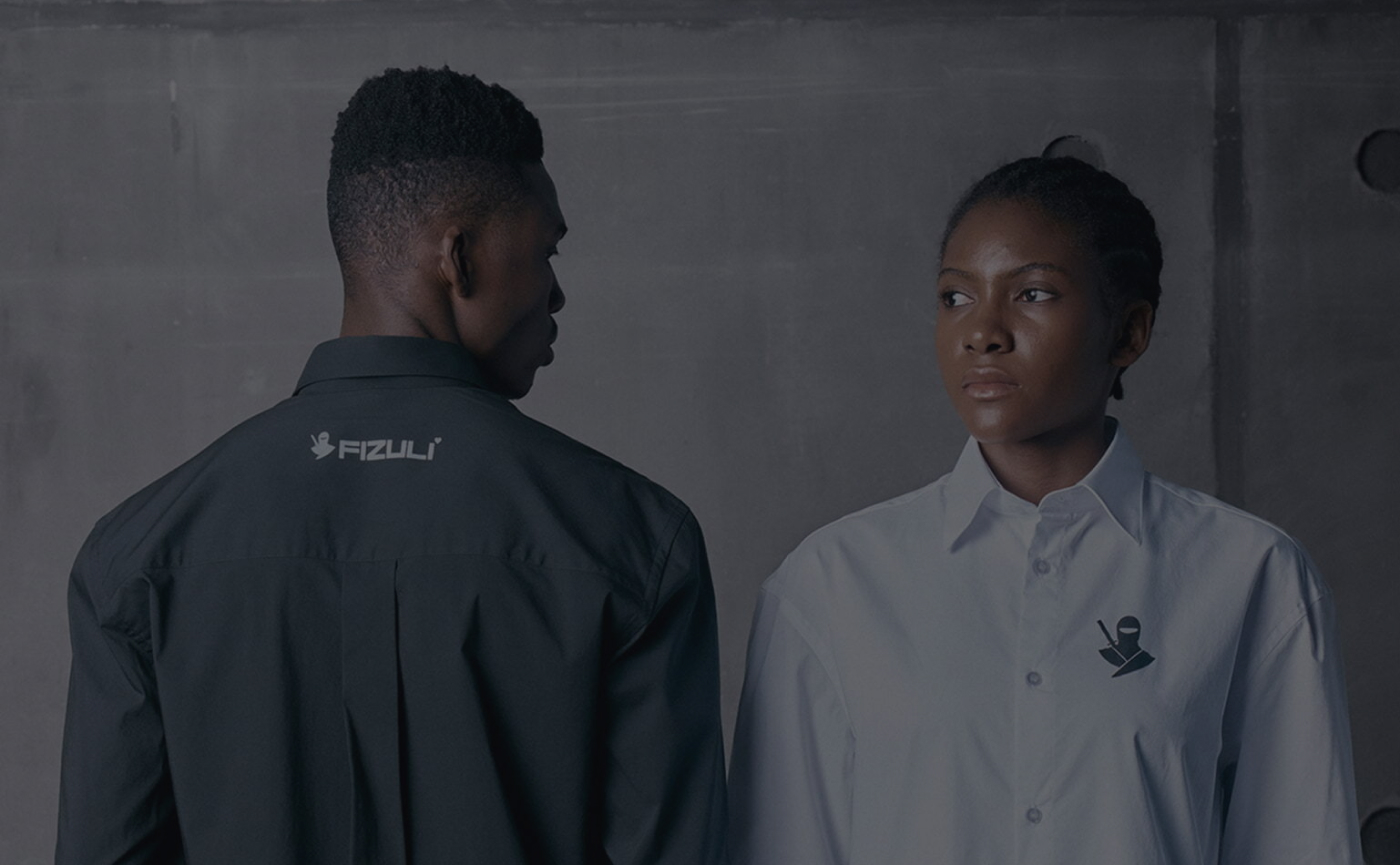
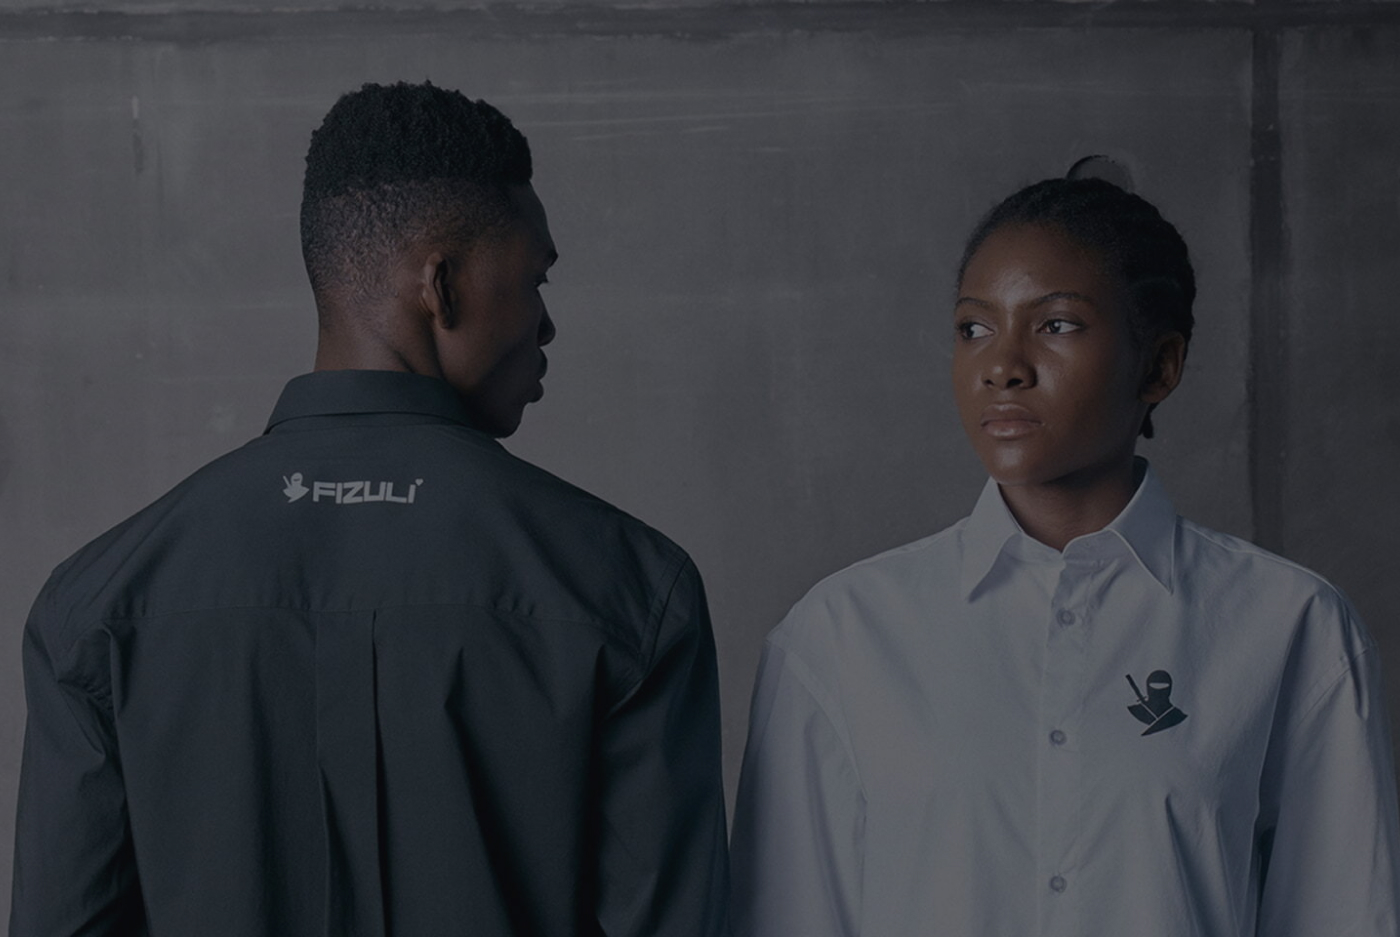
Внешние поля блоков 144 сверху и снизу (было 48): содержимое опущено на 96, фоны растянуты

diff --git a/index.html b/index.html
@@ -8,7 +8,7 @@
   <title>Fizuli — редизайн интернет-магазина. Кейс</title>
   <!-- ?v= менять при каждой правке стилей: GitHub Pages отдаёт CSS с кешем на 10 минут,
        и без новой версии браузер держит старый файл при уже новой разметке -->
-  <link rel="stylesheet" href="blocks.css?v=2026-10-10-19">
+  <link rel="stylesheet" href="blocks.css?v=2026-10-11-1">
   <style>
     :root { --black: #0e0d13; }
     * { box-sizing: border-box; }
@@ -80,7 +80,7 @@
     </section>
 
     <section class="block" aria-label="02 · Бренд и задача">
-      <div class="stage tb b2" style="height:900px;background:#ffffff">
+      <div class="stage tb b2" style="height:1092px;background:#ffffff">
         <div class="t" style="left:48px;top:48px;font-size:14px;color:rgb(14,13,19);line-height:19.0px;width:158px;white-space:nowrap">02&nbsp;&nbsp;·&nbsp;&nbsp;БРЕНД И ЗАДАЧА</div>
         <div class="t" style="left:1192px;top:48px;font-size:14px;color:rgb(14,13,19);line-height:19.0px;width:160px;text-align:right;white-space:nowrap">OQ КЛУБ&nbsp;&nbsp;·&nbsp;&nbsp;КОНКУРС</div>
         <div class="t" style="left:48px;top:388px;font-size:12px;color:rgba(14,13,19,0.6);line-height:17.0px;letter-spacing:0.12em;width:152px">БРЕНД</div>
@@ -111,7 +111,8 @@
 
     <section class="block" aria-label="03 · Сценарии">
       <div class="stage b4">
-        <div class="dark-half"></div>
+        <div class="light-bg bg"></div>
+        <div class="dark-half bg"></div>
         <div class="abs meta"><span>03&nbsp;&nbsp;·&nbsp;&nbsp;Сценарии</span><span></span><span>Исследование</span></div>
 
         <div class="half l" data-half>
@@ -146,7 +147,7 @@
     </section>
 
     <section class="block" aria-label="04 · Структура">
-      <div class="stage tb b5" style="height:1154px;background:#ffffff">
+      <div class="stage tb b5" style="height:1298px;background:#ffffff">
         <div class="t s-meta" style="left:48px;top:48px;width:300px">04  ·  Структура</div>
         <div class="t s-meta" style="right:48px;top:48px;text-align:right">Решения</div>
         <div class="t s-intro" style="left:725px;top:163px;width:627px">Главный вход&nbsp;— «Мужчинам» и&nbsp;«Женщинам». Внутри каждого раздела две линии&nbsp;— повседневная и&nbsp;спортивная. Аксессуары и&nbsp;детское вынесла на&nbsp;отдельные страницы, так как товаров мало.</div>
@@ -186,7 +187,7 @@
     </section>
 
     <section class="block" aria-label="05 · Путь к товару">
-      <div class="stage tb b5p" style="height:1279px;background:#0e0d13">
+      <div class="stage tb b5p" style="height:1423px;background:#0e0d13">
         <div class="glow"></div>
         <div class="floor"></div>
         <div class="t p-meta" style="left:48px;top:48px">05  ·  Путь к товару</div>
@@ -215,7 +216,7 @@
     </section>
 
     <section class="block" aria-label="06 · Каталог">
-      <div class="stage tb b6c" style="height:1362px">
+      <div class="stage tb b6c" style="height:1506px">
         <div class="t c-meta" style="left:48px;top:48px">06  ·  Каталог</div>
         <div class="t c-meta" style="right:48px;top:48px;text-align:right">Решения</div>
         <img class="c-page" src="assets/catalog/page.jpg?v=3" alt="Каталог повседневной линии: карточки с цветами, плитка Process, кардиган «нет в наличии»" loading="lazy">
@@ -225,7 +226,7 @@
     </section>
 
     <section class="block" aria-label="07 · Лукбук">
-      <div class="stage tb b7l" style="height:1312px;background:#ffffff">
+      <div class="stage tb b7l" style="height:1504px;background:#ffffff">
         <div class="t l-meta" style="left:48px;top:48px">07  ·  Лукбук</div>
         <div class="t l-meta" style="right:48px;top:48px;text-align:right">Решения</div>
         <!-- Место под видео. Сейчас — первый кадр (poster). Видео вставим в конце:
@@ -250,7 +251,7 @@
     </section>
 
     <section class="block" aria-label="08 · Страница товара">
-      <div class="stage tb b8p" style="height:2042px">
+      <div class="stage tb b8p" style="height:2231px">
         <div class="t p8-meta" style="left:48px;top:48px">08  ·  Страница товара</div>
         <div class="t p8-meta" style="right:48px;top:48px;text-align:right">Решения</div>
         <!-- Экран планшета — контейнер: видео модели встанет поверх второго фото галереи (подпись «Видео вместо фото»). -->
@@ -282,7 +283,7 @@
     </section>
 
     <section class="block" aria-label="09 · Корзина и заказ">
-      <div class="stage tb b9c" style="height:2473px;background:#0e0d13">
+      <div class="stage tb b9c" style="height:2617px;background:#0e0d13">
         <div class="glow" style="left:-17.2px;top:273px;width:1434.4px;height:840px;opacity:.1"></div>
         <div class="glow" style="left:-17.2px;top:1031.3px;width:1434.4px;height:716.9px;opacity:.1"></div>
         <div class="glow" style="left:15.4px;top:1699.4px;width:718.3px;height:739px;opacity:.07"></div>
@@ -309,13 +310,13 @@
     </section>
 
     <section class="block" aria-label="10 · Цвет и типографика">
-      <div class="stage tb b6" style="height:1100px;background:#ffffff">
-        <div class="r" style="left:0px;top:690px;width:700px;height:410px;background:rgb(255,255,255)"></div>
-        <div class="r" style="left:0px;top:460px;width:700px;height:230px;background:rgb(246,246,246)"></div>
-        <div class="r" style="left:0px;top:330px;width:700px;height:130px;background:rgb(200,200,200)"></div>
-        <div class="r" style="left:0px;top:200px;width:700px;height:130px;background:rgb(117,117,117)"></div>
-        <div class="r" style="left:0px;top:0px;width:700px;height:200px;background:rgb(14,13,19)"></div>
-        <div class="r" style="left:700px;top:0px;width:700px;height:1100px;background:rgb(246,246,246)"></div>
+      <div class="stage tb b6" style="height:1326px;background:#ffffff">
+        <div class="r bg" style="left:0px;top:786px;width:700px;height:540px;background:rgb(255,255,255)"></div>
+        <div class="r bg" style="left:0px;top:556px;width:700px;height:230px;background:rgb(246,246,246)"></div>
+        <div class="r bg" style="left:0px;top:426px;width:700px;height:130px;background:rgb(200,200,200)"></div>
+        <div class="r bg" style="left:0px;top:296px;width:700px;height:130px;background:rgb(117,117,117)"></div>
+        <div class="r bg" style="left:0px;top:0px;width:700px;height:296px;background:rgb(14,13,19)"></div>
+        <div class="r bg" style="left:700px;top:0px;width:700px;height:1326px;background:rgb(246,246,246)"></div>
         <div class="t" style="left:1282px;top:48px;font-size:14px;color:rgb(14,13,19);line-height:19.0px;width:70px;white-space:nowrap">СИСТЕМА</div>
         <div class="t" style="left:725px;top:140px;font-size:12px;color:rgba(14,13,19,0.6);line-height:17.0px;width:111px;white-space:nowrap">TT Supermolot Neue</div>
         <div class="t" style="left:725px;top:160px;font-size:16px;color:rgb(14,13,19);line-height:22.0px;width:128px;white-space:nowrap">Заголовки, цены</div>
@@ -349,9 +350,9 @@
     </section>
 
     <section class="block" aria-label="11 · Карточка товара">
-      <div class="stage tb b11" style="height:1730px">
-        <img class="k-bg" style="top:0" src="assets/card/bg-top.jpg" alt="" aria-hidden="true" loading="lazy">
-        <img class="k-bg" style="top:865px" src="assets/card/bg-bottom.jpg" alt="" aria-hidden="true" loading="lazy">
+      <div class="stage tb b11" style="height:1874px">
+        <img class="k-bg bg" style="top:0" src="assets/card/bg-top.jpg?v=2" alt="" aria-hidden="true" loading="lazy">
+        <img class="k-bg bg" style="top:937px" src="assets/card/bg-bottom.jpg?v=2" alt="" aria-hidden="true" loading="lazy">
         <div class="t k-meta" style="left:48px;top:48px">11  ·  Карточка товара</div>
         <div class="t k-meta" style="right:48px;top:48px;text-align:right">Система</div>
         <!-- Герой: место под видео взаимодействия с карточкой. Сейчас — первый кадр (hero.png). Видео вставим в конце:
@@ -388,7 +389,7 @@
          Ячейка повторяется не раньше чем через 6 шагов (10,8 с) — наложений нет.
          Тайминги взяты из замеров видео-референса, см. ТЗ-блок-09-анимация.md -->
     <section class="block" aria-label="09 · Все экраны">
-      <div class="stage b9" style="height:1013px">
+      <div class="stage b9 pad48" style="height:1109px">
         <img class="shot is-static" style="left:507px;top:386px;--i:0"  src="assets/screens/s01.jpg" alt="Главная" loading="lazy" decoding="async">
         <img class="shot is-static" style="left:73px;top:96px;--i:1"    src="assets/screens/s03.jpg" alt="Каталог — повседневная линия" loading="lazy" decoding="async">
         <img class="shot is-static" style="left:941px;top:676px;--i:2"  src="assets/screens/s05.jpg" alt="Карточка товара" loading="lazy" decoding="async">
@@ -408,7 +409,7 @@
          кейс публикуется на Dprofile и Behance, площадка сама показывает профиль.
          Надпись набрана Supermolot, поэтому вставлена контурами (SVG из Figma) -->
     <section class="block" aria-label="12 · Итог и контакты">
-      <div class="stage tb b10" style="height:1004px">
+      <div class="stage tb b10" style="height:1148px">
         <div class="t f-meta" style="left:48px;top:48px">12  ·  Итог</div>
         <div class="t f-meta" style="right:48px;top:48px;text-align:right">Fizuli</div>
         <div class="t f-txt" style="left:48px;top:163px;width:627px">Работа победила в&nbsp;конкурсе OQ клуба Сергея Оршака,<br>бренд взял её в&nbsp;разработку.</div>

diff --git a/blocks.css b/blocks.css
@@ -18,7 +18,7 @@
 .screen > img { display: block; width: 100%; height: 100%; object-fit: cover; object-position: top center; }
 
 /* ---------- Блок 1: первый экран ---------- */
-.b1 { height: 1456px; background: #0b0b0e url("assets/fabric-dark.jpg") center / cover; color: #f2f2f0; }
+.b1 { height: 1648px; background: #0b0b0e url("assets/fabric-dark.jpg") center / cover; color: #f2f2f0; }
 .b1::before { content: ""; position: absolute; inset: 0;
   /* виньетка из Figma: прозрачный центр, к краям чёрный 55 % */
   background: radial-gradient(closest-side at 50% 50%, rgba(0, 0, 0, 0) 51%, rgba(0, 0, 0, .55) 100%); }
@@ -84,7 +84,8 @@
 @media (prefers-reduced-motion: reduce) { .block { opacity: 1; transform: none; transition: none; } }
 
 /* ---------- Блок «Сценарии»: две половины, запуск по наведению ---------- */
-.b4 { height: 1269px; background: #f2f2f2 url("assets/fabric-light.jpg") left top / 900px 1269px no-repeat; background-blend-mode: multiply; color: #0e0d13; }
+.b4 { height: 1461px; background: #f2f2f2; color: #0e0d13; }
+.b4 .light-bg { position: absolute; left: 0; top: 0; width: 900px; height: 100%; background: #f2f2f2 url("assets/fabric-light.jpg") center / cover; background-blend-mode: multiply; }
 .b4 .dark-half { position: absolute; left: 700px; top: 0; width: 700px; height: 100%; background: #17171a url("assets/fabric-dark.jpg") center / cover;
   box-shadow: -6px 0 24px rgba(0, 0, 0, .18), -20px 0 80px rgba(0, 0, 0, .12); }
 .b4 .meta { color: #0e0d13; }
@@ -226,7 +227,7 @@
 /* ---------- Блок «Карточка товара»: герой-карточка (место под видео), выноски, раскадровка ---------- */
 .b11 { background: #0e0d13; color: #fff; }
 /* фон: фото с затемнением 60 %, выгружено двумя половинами по 865 px */
-.b11 .k-bg { position: absolute; left: 0; width: 1400px; height: 865px; display: block; }
+.b11 .k-bg { position: absolute; left: 0; width: 1400px; height: 937px; display: block; }
 .b11 .k-meta { font-size: 14px; line-height: 19px; text-transform: uppercase; white-space: nowrap; }
 .b11 .k-hero { position: absolute; left: 446px; top: 163px; width: 508px; height: 817px; background: #fff; }
 .b11 .k-video { position: absolute; left: 24px; top: 24px; width: 460px; height: 769px; overflow: hidden; }
@@ -248,3 +249,10 @@
 .b6c .c-filters img { position: absolute; left: -8.3px; top: 0; width: 331.1px; height: auto; display: block; }
 .b7l .l-lab { font-size: 12px; line-height: 17px; letter-spacing: .12em; text-transform: uppercase; color: rgba(14, 13, 19, .6); white-space: nowrap; }
 .b7l .l-val { font-size: 16px; line-height: 1.4; color: rgba(14, 13, 19, .6); }
+
+/* ---------- Внешние поля блоков: 144 сверху и снизу (было 48) ----------
+   Всё содержимое опускаем на 96 px, фоновые слои (.bg) остаются на месте и тянутся на всю высоту.
+   В «Сценариях» половины-кнопки остаются во всю высоту, сдвигаем их содержимое. «Все экраны» — на 48 (там было 96). */
+.stage > *:not(.bg):not(.half) { translate: 0 96px; }
+.b4 .half .content { translate: 0 96px; }
+.stage.pad48 > *:not(.bg):not(.half) { translate: 0 48px; }
